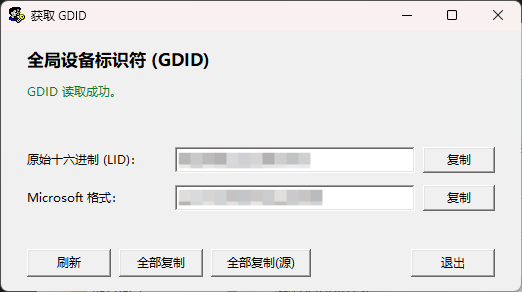
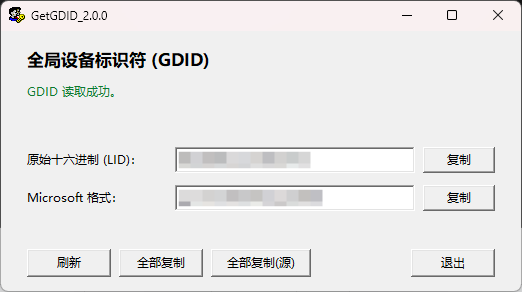
update

diff --git a/src/version.rs b/src/version.rs
@@ -1,0 +1,30 @@
+use crate::consts::DEFAULT_VERSION;
+
+const VERSION_INI: &str = include_str!("../version.ini");
+
+pub(crate) fn load() -> String {
+    parse(VERSION_INI).unwrap_or_else(|| DEFAULT_VERSION.to_string())
+}
+
+fn parse(text: &str) -> Option<String> {
+    for raw in text.lines() {
+        let line = raw.trim().trim_start_matches('\u{feff}');
+        if line.is_empty()
+            || line.starts_with('[')
+            || line.starts_with(';')
+            || line.starts_with('#')
+        {
+            continue;
+        }
+        let value = match line.split_once('=') {
+            Some((key, value)) if key.trim().eq_ignore_ascii_case("version") => value.trim(),
+            Some(_) => continue,
+            None => line,
+        };
+        let value = value.trim().trim_matches('"').trim();
+        if !value.is_empty() {
+            return Some(value.to_string());
+        }
+    }
+    None
+}

diff --git a/src/main.rs b/src/main.rs
@@ -3,6 +3,7 @@
 mod app;
 mod consts;
 mod gdid;
+mod version;
 mod win32;
 
 use std::ptr::{null, null_mut};
@@ -20,7 +21,7 @@ use windows_sys::Win32::UI::WindowsAndMessaging::{
 };
 
 use crate::app::{wndproc, App};
-use crate::consts::{APP_TITLE, ICON_BIG_INDEX, ICON_ICO, ICON_SMALL_INDEX, ID_EXIT, VK_ESCAPE};
+use crate::consts::{APP_NAME, ICON_BIG_INDEX, ICON_ICO, ICON_SMALL_INDEX, ID_EXIT, VK_ESCAPE};
 use crate::win32::{icon_from_ico, wide};
 
 fn main() {
@@ -60,7 +61,7 @@ fn main() {
         let pos_x = ((screen_w - win_w) / 2).max(0);
         let pos_y = ((screen_h - win_h) / 2).max(0);
 
-        let title = wide(APP_TITLE);
+        let title = wide(&format!("{}_{}", APP_NAME, version::load()));
         let hwnd = CreateWindowExW(
             0,
             class_name.as_ptr(),

diff --git a/src/consts.rs b/src/consts.rs
@@ -1,6 +1,7 @@
 use windows_sys::Win32::Foundation::COLORREF;
 
-pub(crate) const APP_TITLE: &str = "获取 GDID";
+pub(crate) const APP_NAME: &str = "GetGDID";
+pub(crate) const DEFAULT_VERSION: &str = "1.0.0";
 pub(crate) const HEADER_TEXT: &str = "全局设备标识符 (GDID)";
 pub(crate) const LABEL_HEX: &str = "原始十六进制 (LID)：";
 pub(crate) const LABEL_MS: &str = "Microsoft 格式：";

diff --git a/README.md b/README.md
@@ -66,6 +66,7 @@ GetGDID
 |   Cargo.toml          # 项目清单与依赖
 |   LICENSE
 |   README.md
+|   version.ini         # 程序版本
 |
 +---assets
 |       icon.ico        # 图标
@@ -78,6 +79,7 @@ GetGDID
         consts.rs       # 常量定义
         gdid.rs         # 注册表读取与 LID 解析
         main.rs         # 程序入口与消息循环
+        version.rs      # 版本号解析
         win32.rs        # Win32 API 封装
 ```
 
